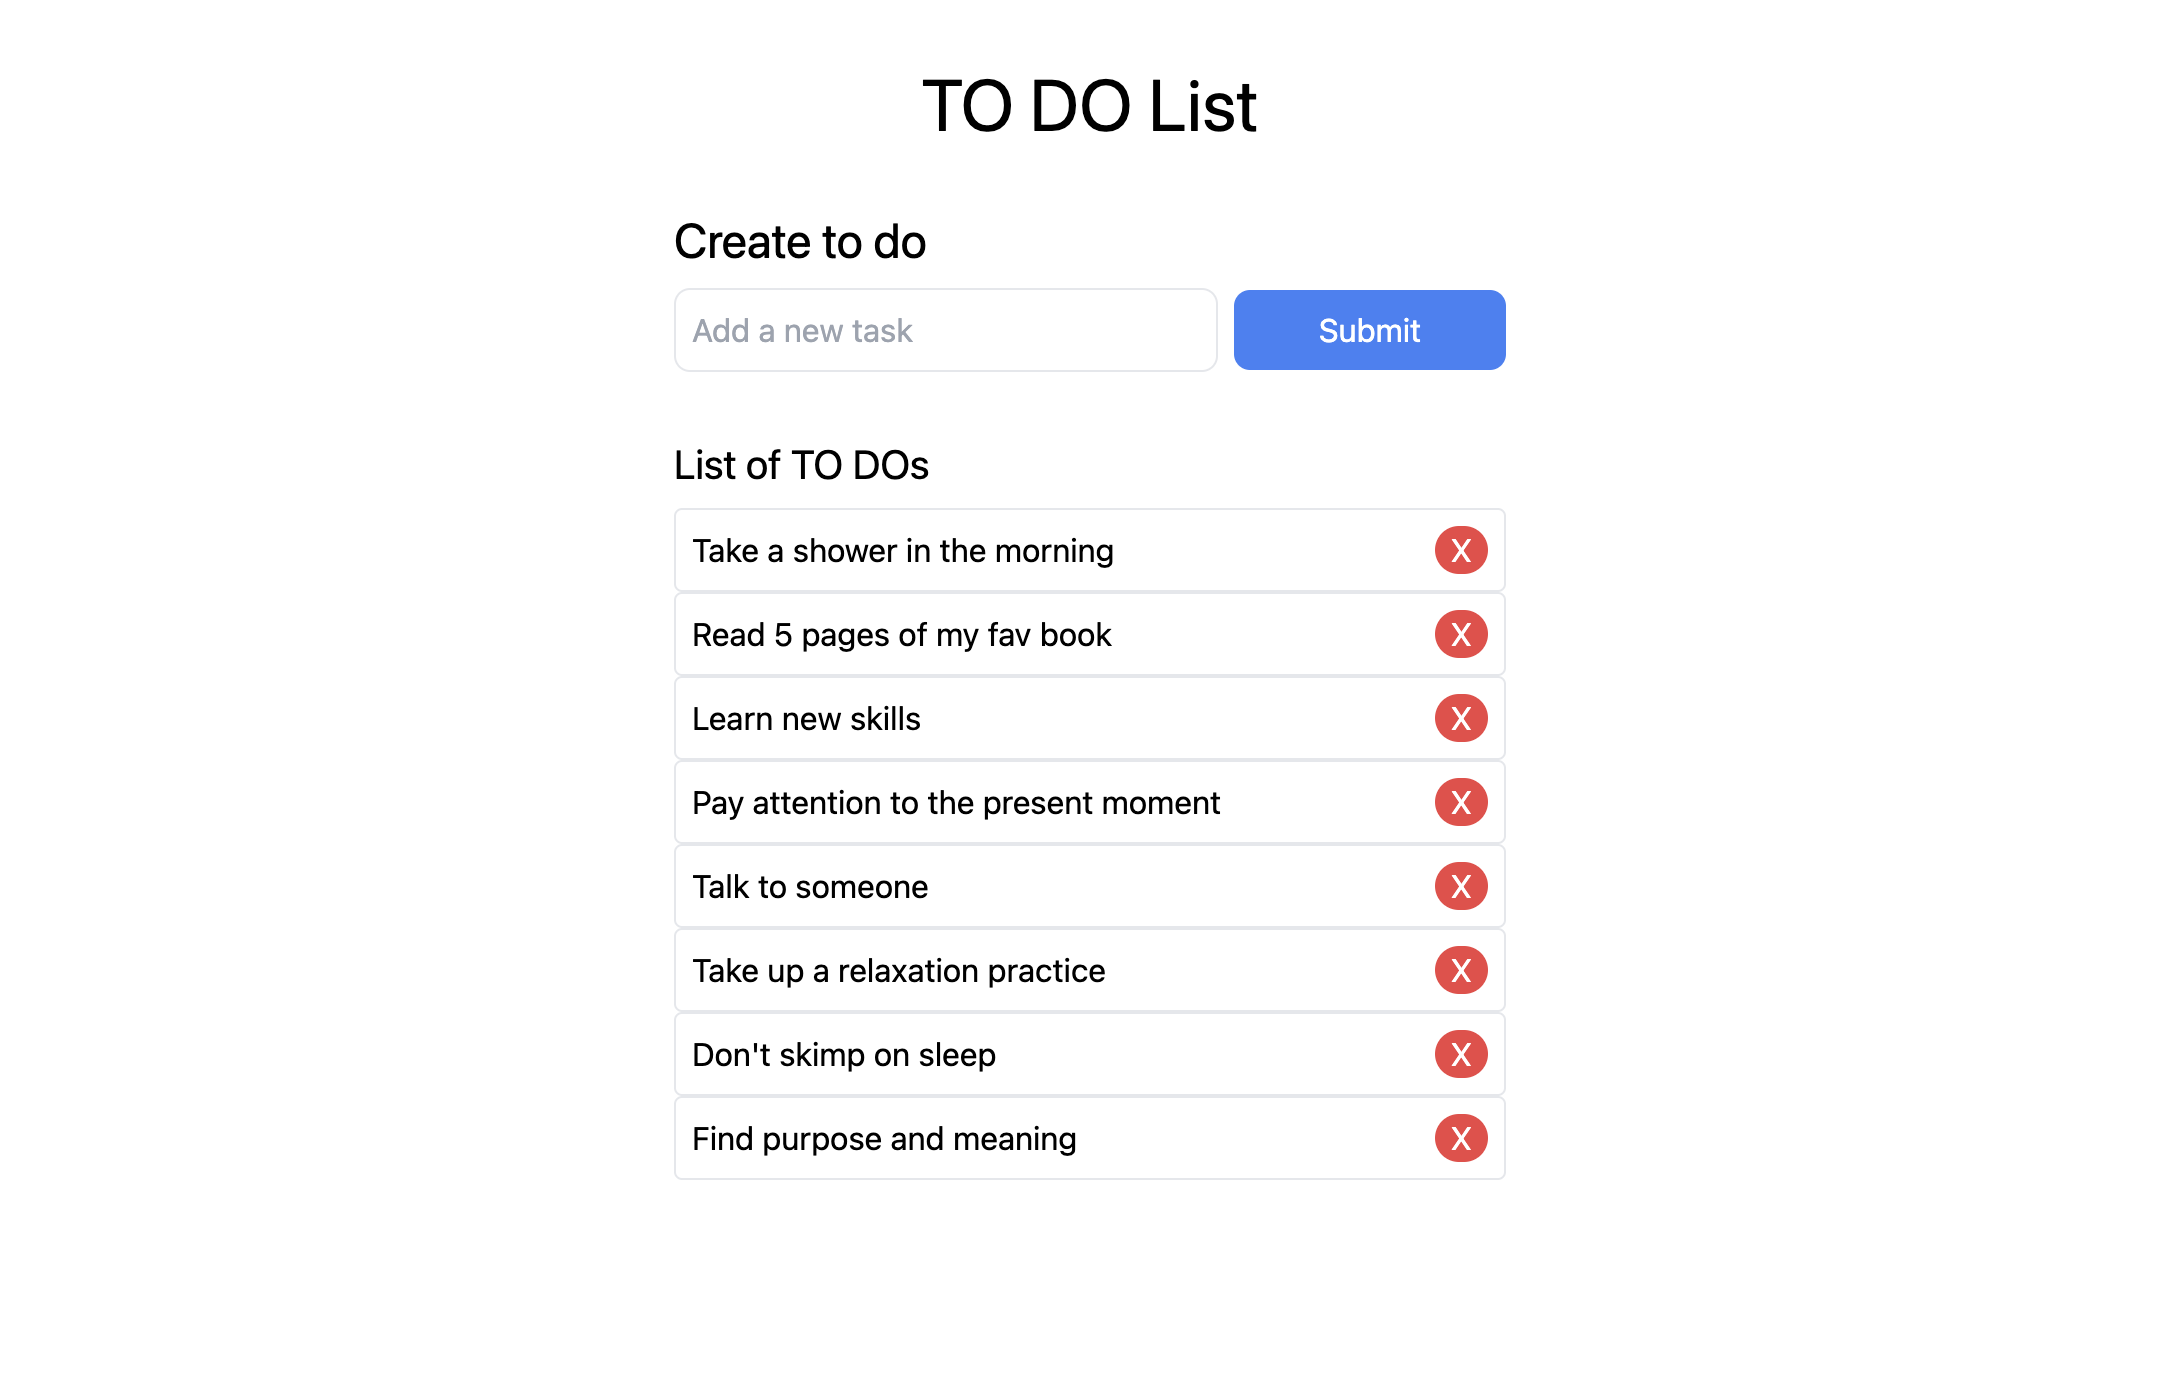
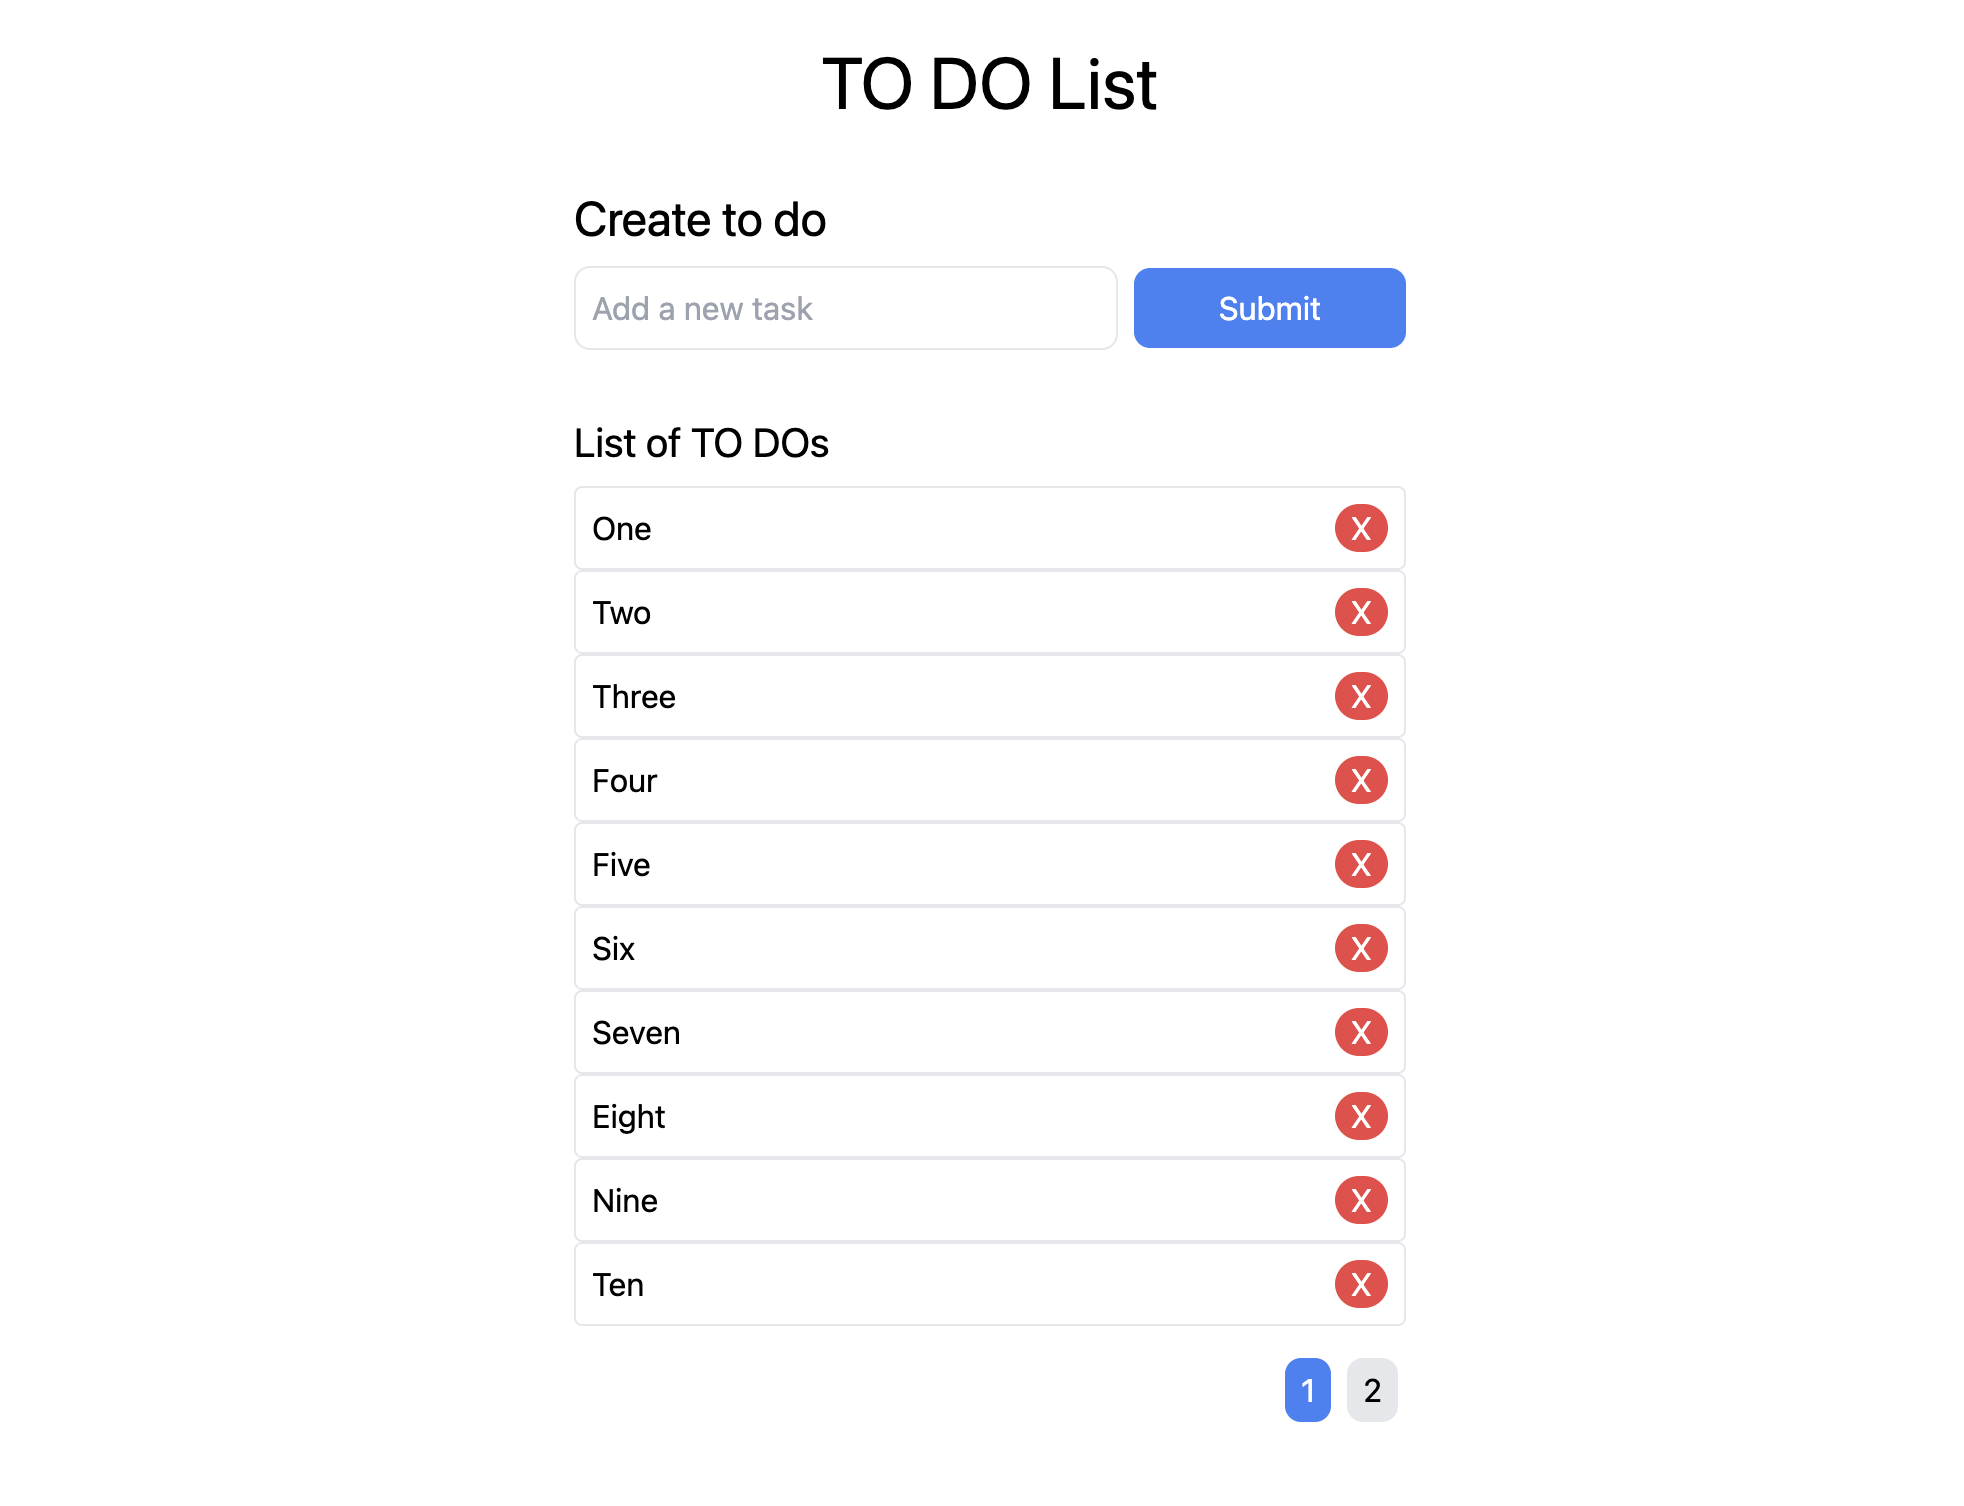
Adding pagination component

diff --git a/src/components/TodoList.jsx b/src/components/TodoList.jsx
@@ -1,14 +1,35 @@
-import React from "react";
+import React, { useState } from "react";
+import Pagination from "./Pagination";
 import TodoItem from "./TodoItem";
 
 const TodoList = ({ todos, deleteTodo }) => {
+  const [currentPage, setCurrentPage] = useState(1);
+  const todosPerPage = 10;
+
+  const indexOfLastTodo = currentPage * todosPerPage;
+  const indexOfFirstTodo = indexOfLastTodo - todosPerPage;
+  const currentTodos = todos.slice(indexOfFirstTodo, indexOfLastTodo);
+  const totalPages = Math.ceil(todos.length / todosPerPage);
+
+  const handlePageChange = (page) => {
+    setCurrentPage(page);
+  };
+
   return (
     <div className="pt-8">
-      <h2 className="text-xl mb-2">List of TO DOs</h2>
-      <ul className="max-h-96 overflow-y-auto"></ul>
-      {todos.map((todo) => (
-        <TodoItem key={todo.id} todo={todo} deleteTodo={deleteTodo} />
-      ))}
+      <div>
+        <h2 className="text-xl mb-2">List of TO DOs</h2>
+        <div className="max-h-screen overflow-y-auto">
+          {currentTodos.map((todo) => (
+            <TodoItem key={todo.id} todo={todo} deleteTodo={deleteTodo} />
+          ))}
+        </div>
+      </div>
+      <Pagination
+        currentPage={currentPage}
+        totalPages={totalPages}
+        onPageChange={handlePageChange}
+      />
     </div>
   );
 };

diff --git a/src/components/Pagination.jsx b/src/components/Pagination.jsx
@@ -1,0 +1,27 @@
+// src/components/Pagination.js
+import React from "react";
+
+const Pagination = ({ currentPage, totalPages, onPageChange }) => {
+  const pages = [];
+  for (let i = 1; i <= totalPages; i++) {
+    pages.push(i);
+  }
+
+  return (
+    <div className="flex justify-end my-4">
+      {pages.map((page) => (
+        <button
+          key={page}
+          onClick={() => onPageChange(page)}
+          className={`mx-1 px-2 py-1 rounded-lg ${
+            page === currentPage ? "bg-blue-500 text-white" : "bg-gray-200"
+          }`}
+        >
+          {page}
+        </button>
+      ))}
+    </div>
+  );
+};
+
+export default Pagination;

diff --git a/README.md b/README.md
@@ -1,4 +1,4 @@
-# React To Do List 🗒
+# React To Do List 🗒 ✅
 
 ![Badge in progress](https://img.shields.io/badge/STATUS-DONE-green)
 
@@ -34,11 +34,6 @@ npm run dev
 - React JS
 - React Router Dom V6
 - Tailwind
-
-```
-
-
-```
 
 ## Web site display
 
